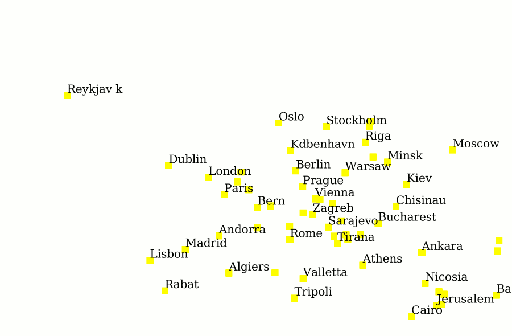
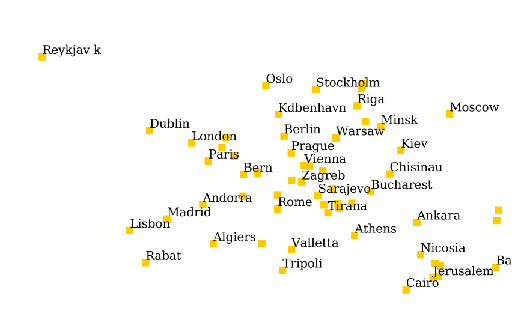
Cleaned up point tutorial; Changed population calculation to use POP_MAX, changed basic point style from yellow to orange, increased size of large scale point style

diff --git a/docs/usermanual/source/cartography/ysld/tutorial/point.rst b/docs/usermanual/source/cartography/ysld/tutorial/point.rst
@@ -35,7 +35,7 @@ There are a lot of points in this data set, and we don't want to draw all of the
               symbols:
               - mark:
                   shape: square
-                  fill-color: '#FFFF00'
+                  fill-color: '#FFCC00'
 
 #. Now, just like we did in the previous section, add a text symbolizer referencing the ``NAME`` attribute to display the names of the cities::
 
@@ -51,7 +51,7 @@ There are a lot of points in this data set, and we don't want to draw all of the
               symbols:
               - mark:
                   shape: square
-                  fill-color: '#FFFF00'
+                  fill-color: '#FFCC00'
           - text:
               label: ${NAME}
 
@@ -135,7 +135,7 @@ Now, lets do some styling. Point symbolizes are described by symbols, which can 
 
       Capital cities with labels
 
-#. Since this data set contains population attributes, we can scale the size of the points based on population. Use ``log(POP2015)/log(2)`` in the ``size`` parameter to get a relative scale without too much variation in point size::
+#. Since this data set contains population attributes, we can scale the size of the points based on population. Use ``${log(POP_MAX)/log(4)}`` in the ``size`` parameter to get a relative scale without too much variation in point size::
 
     name: places
     title: Populated places style
@@ -145,13 +145,13 @@ Now, lets do some styling. Point symbolizes are described by symbols, which can 
       - filter: ${ADM0CAP = 1}
         symbolizers:
         - point:
-            size: ${log(POP2015)/log(2) - 1}
+            size: ${log(POP_MAX)/log(4)}
             symbols:
             - mark:
                 shape: star
                 fill-color: '#000000'
         - point:
-            size: ${log(POP2015)/log(2)}
+            size: ${log(POP_MAX)/log(4)+1}
             symbols:
             - mark:
                 shape: circle
@@ -162,7 +162,7 @@ Now, lets do some styling. Point symbolizes are described by symbols, which can 
             displacement: (5, 4)
             x-labelPriority: ${10-LABELRANK}
 
-   Note that the star shape is still always set to be 1px smaller than the circle.
+   Note that the circle shape is still set to be 1px larger than the star.
 
    .. figure:: img/point_size_label.png
 
@@ -175,7 +175,7 @@ To improve the display further, we can add scale rules.
 
 #. Split the single rule into three rules:
 
-   #. A 2px black circle for the features when zoomed out past 100000000 (``1e8``).
+   #. A 3px black circle for the features when zoomed out past 100000000 (``1e8``).
    #. The star/circle combo as done in the previous section when zoomed in past 100000000 (``1e8``).
    #. The labels only when zoomed in past 50000000 (``5e7``).
 
@@ -190,7 +190,7 @@ To improve the display further, we can add scale rules.
           filter: ${ADM0CAP = 1}
           symbolizers:
           - point:
-              size: 2
+              size: 3
               symbols:
               - mark:
                   shape: circle
@@ -199,13 +199,13 @@ To improve the display further, we can add scale rules.
           filter: ${ADM0CAP = 1}
           symbolizers:
           - point:
-              size: ${log(POP2015)/log(2) - 1}
+              size: ${log(POP_MAX)/log(4)}
               symbols:
               - mark:
                   shape: star
                   fill-color: '#000000'
           - point:
-              size: ${log(POP2015)/log(2)}
+              size: ${log(POP_MAX)/log(4)+1}
               symbols:
               - mark:
                   shape: circle
@@ -225,7 +225,7 @@ To improve the display further, we can add scale rules.
       else: true
       symbolizers:
         - point:
-            size: ${log(POP2015)/log(2)-1}
+            size: ${log(POP_MAX)/log(4)}
             symbols:
             - mark:
                 shape: circle
@@ -236,7 +236,7 @@ To improve the display further, we can add scale rules.
       else: true
       symbolizers:
         - point:
-            size: ${log(POP2015)/log(2)-1}
+            size: ${log(POP_MAX)/log(4)+1}
             symbols:
             - mark:
                 shape: circle
